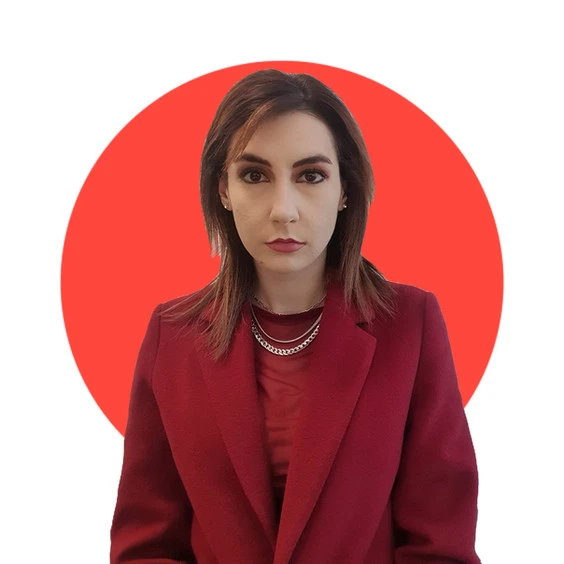
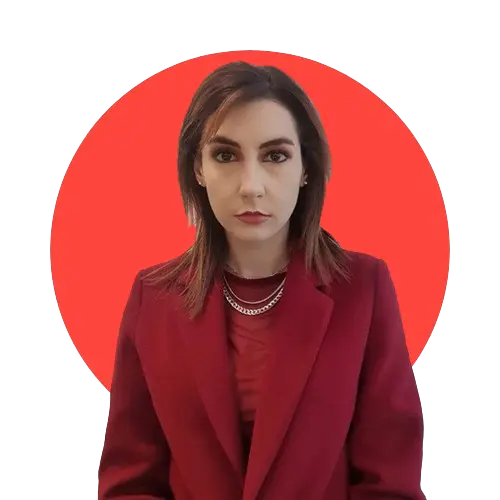
bg photo changed bg Error page fix footer, blog bh spinner black

diff --git a/client/src/components/pages/ErrorPage.jsx b/client/src/components/pages/ErrorPage.jsx
@@ -4,54 +4,56 @@ import global from "../../resources/global.json";
 import { useOutletContext } from "react-router";
 
 export default function ErrorPage() {
-	return (
-		<>
-			<div
-				style={{
-					width: "100vw",
-					height: `calc(100vh - ${global.UTILS.NAV_HEIGHT})`,
-					display: "flex",
-					justifyContent: "center",
-					alignItems: "center",
-					gap: "5vw",
-					flexWrap: "wrap",
-				}}
-			>
-				<svg
-					style={{ flex: "0 1 450px" }}
-					xmlns="http://www.w3.org/2000/svg"
-					viewBox="0, 0, 410, 164"
-				>
-					<path
-						d="M43 54H2V16h127v38H88v109H43zM311.976 125l18.584.126c28.145 0 32.259-22.814 32.259-36.595 0-9.233-3.187-34.531-35.851-34.531h-14.992v71zM267 16h74.858C390.731 16 408 52.172 408 89.15c0 45.022-23.819 73.85-74.968 73.85H267V16z"
-						fill="#EB0028"
-					></path>
-					<path
-						d="M136 16h124v38h-78v18h78v35h-78v18h78v38H136z"
-						stroke="#CCC"
-						strokeWidth="1"
-						strokeDasharray="4,6"
-						fill="none"
-					></path>
-				</svg>
-				<div>
-					<h1 style={{ fontSize: "100px", fontWeight: "bold" }}>404</h1>
-					<p style={{ fontSize: "20px", maxWidth: "20ch" }}>
-						Sembra che questa pagina non esista{" "}
-					</p>
-					<Link
-						to="/"
-						style={{
-							padding: "10px 20px",
-							backgroundColor: global.COLORS.ROSSO_TED,
-							textDecoration: "none",
-							color: "#fff",
-						}}
-					>
-						Torna alla home
-					</Link>
-				</div>
-			</div>
-		</>
-	);
+  return (
+    <>
+      <div style={{ backgroundColor: global.COLORS.NERO, color: "#fff" }}>
+        <div
+          style={{
+            width: "100vw",
+            height: `calc(100vh - ${global.UTILS.NAV_HEIGHT})`,
+            display: "flex",
+            justifyContent: "center",
+            alignItems: "center",
+            gap: "5vw",
+            flexWrap: "wrap",
+          }}
+        >
+          <svg
+            style={{ flex: "0 1 450px" }}
+            xmlns="http://www.w3.org/2000/svg"
+            viewBox="0, 0, 410, 164"
+          >
+            <path
+              d="M43 54H2V16h127v38H88v109H43zM311.976 125l18.584.126c28.145 0 32.259-22.814 32.259-36.595 0-9.233-3.187-34.531-35.851-34.531h-14.992v71zM267 16h74.858C390.731 16 408 52.172 408 89.15c0 45.022-23.819 73.85-74.968 73.85H267V16z"
+              fill="#EB0028"
+            ></path>
+            <path
+              d="M136 16h124v38h-78v18h78v35h-78v18h78v38H136z"
+              stroke="#CCC"
+              strokeWidth="1"
+              strokeDasharray="4,6"
+              fill="none"
+            ></path>
+          </svg>
+          <div>
+            <h1 style={{ fontSize: "100px", fontWeight: "bold" }}>404</h1>
+            <p style={{ fontSize: "20px", maxWidth: "20ch" }}>
+              Sembra che questa pagina non esista{" "}
+            </p>
+            <Link
+              to="/"
+              style={{
+                padding: "10px 20px",
+                backgroundColor: global.COLORS.ROSSO_TED,
+                textDecoration: "none",
+                color: "#fff",
+              }}
+            >
+              Torna alla home
+            </Link>
+          </div>
+        </div>
+      </div>
+    </>
+  );
 }

diff --git a/client/src/components/components/Footer.jsx b/client/src/components/components/Footer.jsx
@@ -169,13 +169,13 @@ export default function Footer() {
           </b>
           <div style={{ lineHeight: "10px", fontSize: "16px" }}>
             <p className="secondary-text" style={{ marginTop: "5px" }}>
-              <GreyLink text="Back to Zero 2023" link={"/edizione2023"} />
+              <GreyLink text="Back to Zero" link={"/edizione2023"} />
             </p>
             <p className="secondary-text">
-              <GreyLink text="Awards 2023" link={"/awards2023"} />
+              <GreyLink text="Awards" link={"/awards2023"} />
             </p>
             <p className="secondary-text">
-              <GreyLink text="ACT 2022" link={"/edizione2022"} />
+              <GreyLink text="ACT" link={"/edizione2022"} />
             </p>
           </div>
           <b>
@@ -188,7 +188,7 @@ export default function Footer() {
             <WhiteLink text="Blog" link="/blog" />
           </b>
           <b>
-            <WhiteLink text="About Us" link="/mission&vision" />
+            <WhiteLink text="Chi Siamo" link="/mission&vision" />
           </b>
         </div>
         <div
@@ -209,7 +209,7 @@ export default function Footer() {
                 padding: "8px 32px",
                 color: "white",
                 border: "none",
-                fontSize: "15px",
+                fontSize: "18px",
                 borderRadius: "8px",
                 fontWeight: "bold",
               }}
@@ -221,7 +221,7 @@ export default function Footer() {
             <b>Cerchi informazioni?</b>
             <p>
               Contattaci{" "}
-              <a className="tertiary-text" href="mailto:info@tedxsapienzau.com">
+              <a className="tertiary-text" href="mailto:info@tedxsapienzau.com" style={{color: "#eb0028"}}>
                 info@tedxsapienzau.com
               </a>
             </p>

diff --git a/client/src/components/pages/Team.jsx b/client/src/components/pages/Team.jsx
@@ -1,7 +1,6 @@
 import React, { useRef, useState, useEffect, Component } from "react";
 import ExecutiveTeamCard from "../components/ExecutiveTeamCard";
 import axios from "axios";
-import "../../index.css";
 import { useOutletContext } from "react-router";
 import global from "../../resources/global.json";
 import VolunteerCard from "../components/VolunteerCard";
@@ -35,7 +34,7 @@ export default function Team2022() {
       ers: ["Team External Relations & Sponsor", "ers"],
       hra: ["Team Human Resources & Academy", "hra"],
       cam: ["Team Communication & Marketing", "cam"],
-      law: ["Team Legal & Administrative", "law"],
+      law: ["Team Legal & Administrative", "la"],
     },
     23: {
       dw: ["Team Design & Website", "dw"],
@@ -169,7 +168,7 @@ export default function Team2022() {
             alignItems: "center",
           }}
         >
-          <div className="spinner"></div>
+          <div className="spinner" style></div>
         </div>
       );
     } else {

diff --git a/client/src/resources/styles/edizione2022style.css b/client/src/resources/styles/edizione2022style.css
@@ -9,7 +9,7 @@
 }
 
 .where-is-the-event > div:nth-child(1) {
-  background-color:   #191919;
+  background-color: #191919;
   display: flex;
   padding: 50px;
   color: white;
@@ -183,7 +183,7 @@
 .spinner:after {
   width: 85%;
   height: 85%;
-  background-color: #fff;
+  background-color: black;
   top: 50%;
   left: 50%;
   transform: translate(-50%, -50%);

diff --git a/client/src/components/pages/Blog.jsx b/client/src/components/pages/Blog.jsx
@@ -201,6 +201,7 @@ export default function Blog({ withTitle = true }) {
                     <h4
                       style={{
                         fontFamily: "GothamBold",
+                        color: "white"
                       }}
                     >
                       Loading...

diff --git a/client/src/App.js b/client/src/App.js
@@ -131,7 +131,7 @@ const router = createBrowserRouter([
         element: <Awards2023 />,
       },
       {
-        path: "/events/awards2022",
+        path: "/eventi/awards2022",
         element: <Awards2022 />,
       },
       {

diff --git a/client/src/resources/styles/edizione2023style.css b/client/src/resources/styles/edizione2023style.css
@@ -187,7 +187,7 @@
 .spinner:after {
   width: 85%;
   height: 85%;
-  background-color: #fff;
+  background-color: black;
   top: 50%;
   left: 50%;
   transform: translate(-50%, -50%);
